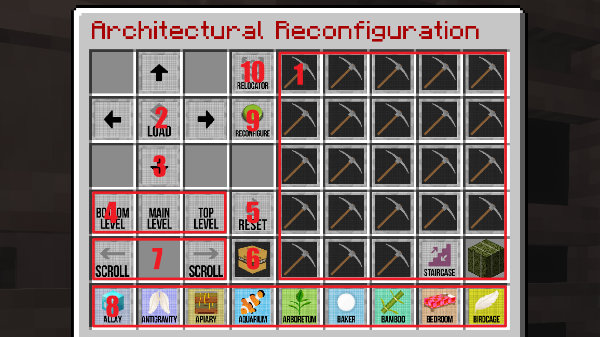
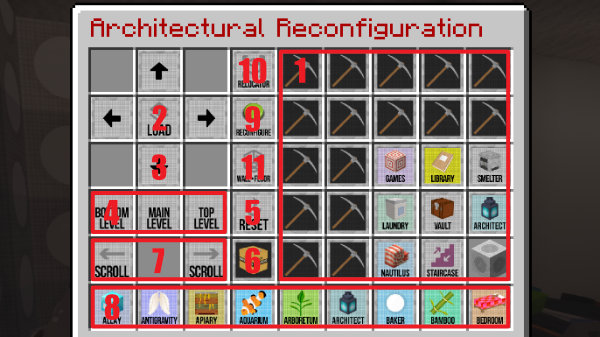
Update ARS page for new wall/floor button

diff --git a/docs/room-relocator.md b/docs/room-relocator.md
@@ -10,7 +10,7 @@ If you have grown a room in the ARS grid that you think is in the wrong position
 
 The room relocator can be accessed from the [Architectural Reconfiguration System](/ars) GUI.
 
-![ARS GUI](/images/docs/vanilla/ars_gui.jpg)
+![ARS GUI](/images/docs/ars_gui.jpg)
 
 - Click the **Relocation** button to open the Room relocator.
 
@@ -20,7 +20,7 @@ The room relocator can be accessed from the [Architectural Reconfiguration Syste
 - Select the room you want to relocate.
 - Select an empty slot to move the room to. You can use any empty slot on any level.
 - Click the **Reset** button to change your selections.
-- Click the **Reconfigure** button to start the relocation .
+- Click the **Reconfigure** button to start the relocation.
 
 ## Features
 
